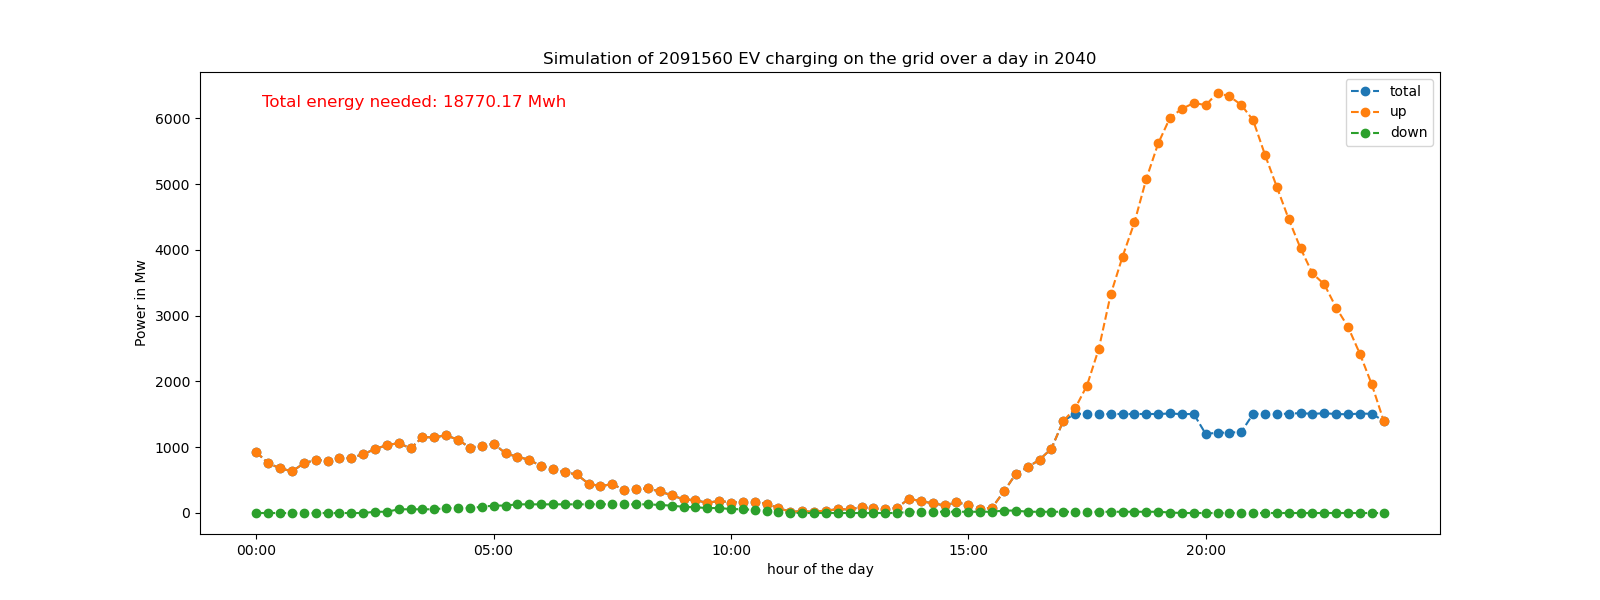
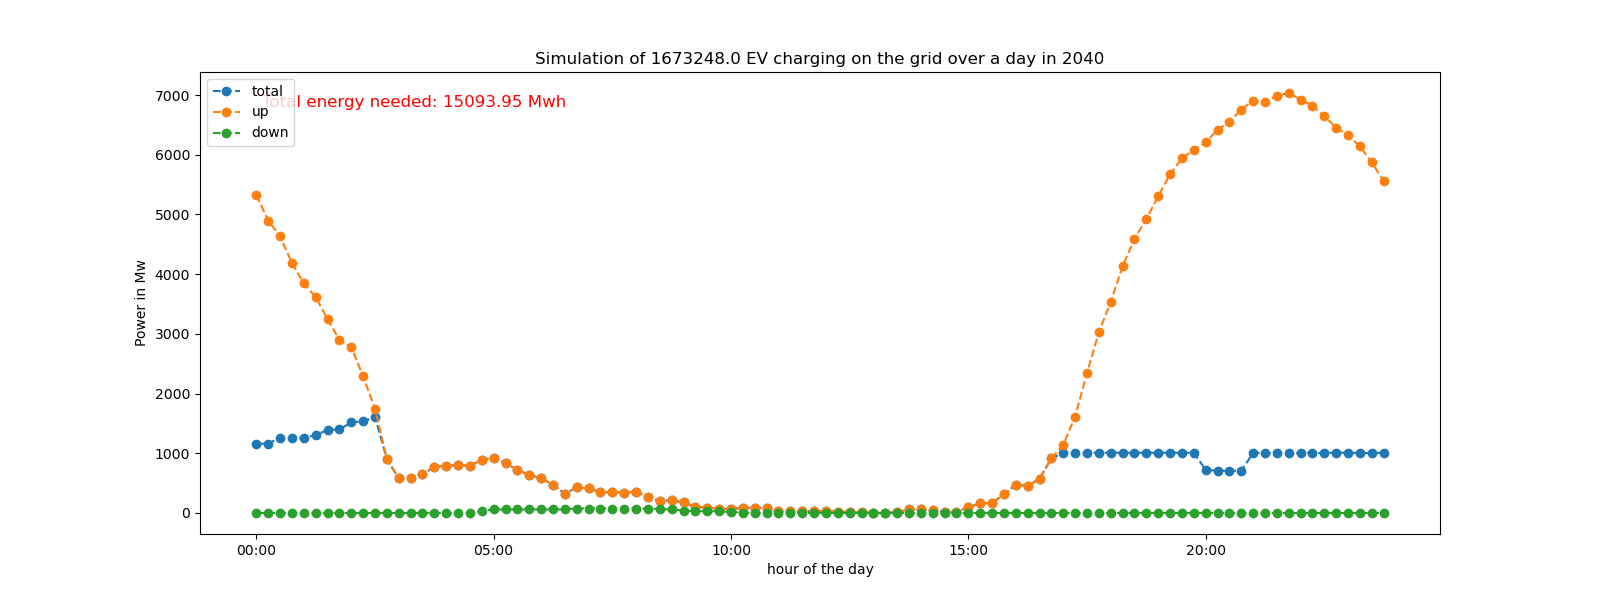
adding the possibility to run different scnerarios for flexibility

diff --git a/main.py b/main.py
@@ -42,8 +42,8 @@ data_charging, event_counts = load_data()
 year_simulation = int(input("Enter the year of simulation: "))
 
 ratio_car_charging = 0.8
-car_number_real = get_number_EV(data_ev_forecast, year_simulation)*ratio_car_charging
-car_number_simulated = 5000
+car_number_real = int(get_number_EV(data_ev_forecast, year_simulation)*ratio_car_charging)
+car_number_simulated = 1000
 ratio = car_number_real / car_number_simulated
 print("Number of EV in {}: {}".format(year_simulation, car_number_real))
 
@@ -67,3 +67,21 @@ print("Request: {} regulation of {} Mwh needed for {} minutes at {}".format(type
 
 df_summed_flex, total_energy_needed_flex = model_charging_flexibility(df_car, df_simulation, df_summed_flex, car_number_simulated, max_power,time_regulation, quantity_regulation, duration_regulation, type_regulation, ratio = ratio)
 visualize_flex_charging(df_summed_flex, car_number_real, year_simulation, total_energy_needed_flex, ratio, "plots/flex_charging_{}_{}_{}_{}.png".format(time_regulation, quantity_regulation, duration_regulation, type_regulation))
+
+
+while True:
+    print("Do you want to run another simulation? (y/n)")
+    answer = input().lower()
+
+    if answer != 'y':
+        break
+
+    time_regulation, quantity_regulation, duration_regulation, type_regulation = get_flexibility_conditions()
+
+    print("Request: {} regulation of {} MWh needed for {} minutes at {}".format(type_regulation, quantity_regulation, duration_regulation, time_regulation))
+
+    df_summed_flex, total_energy_needed_flex = model_charging_flexibility(df_car, df_simulation, df_summed_flex, car_number_simulated, max_power, time_regulation, quantity_regulation, duration_regulation, type_regulation, ratio=ratio)
+    visualize_flex_charging(df_summed_flex, car_number_real, year_simulation, total_energy_needed_flex, ratio, "plots/flex_charging_{}_{}_{}_{}.png".format(time_regulation, quantity_regulation, duration_regulation, type_regulation))
+
+    print("##############################################################################################################################################################################")
+print("Simulation finished.")
